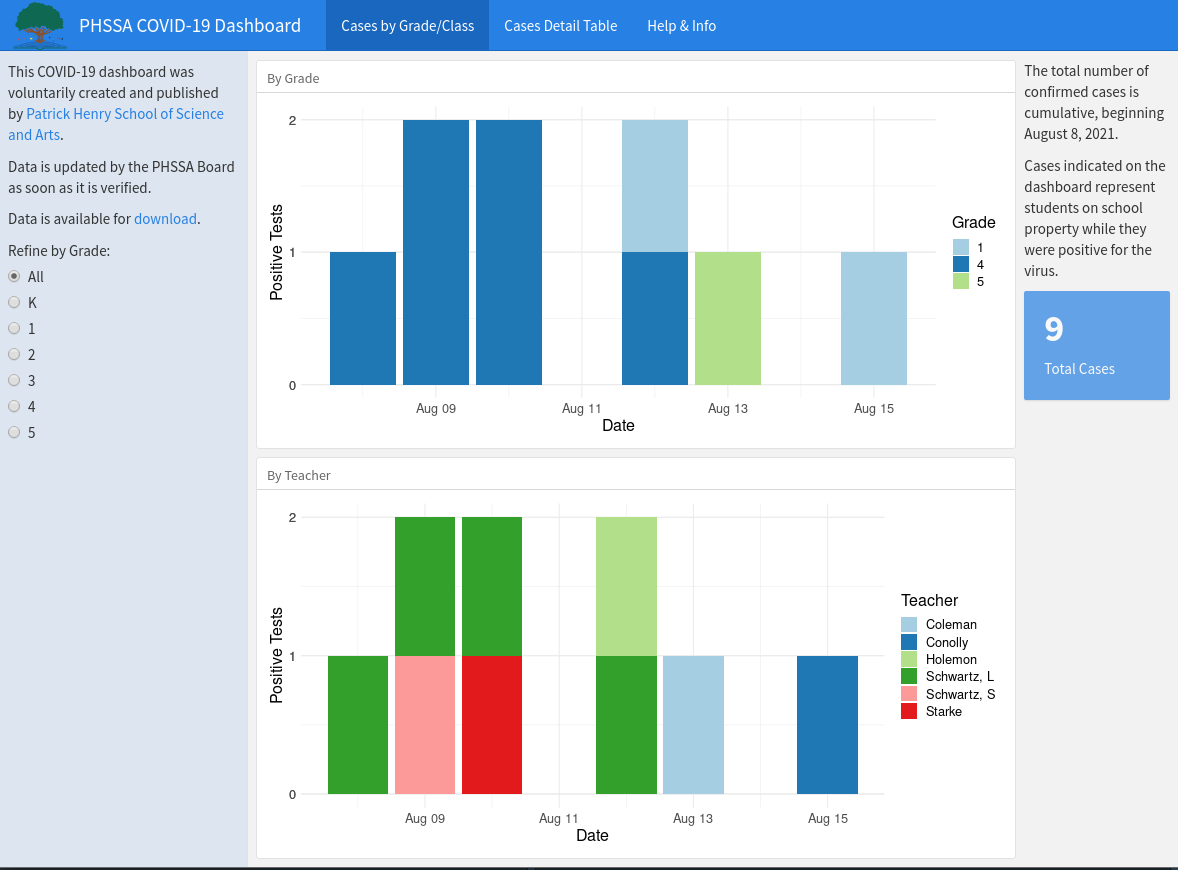
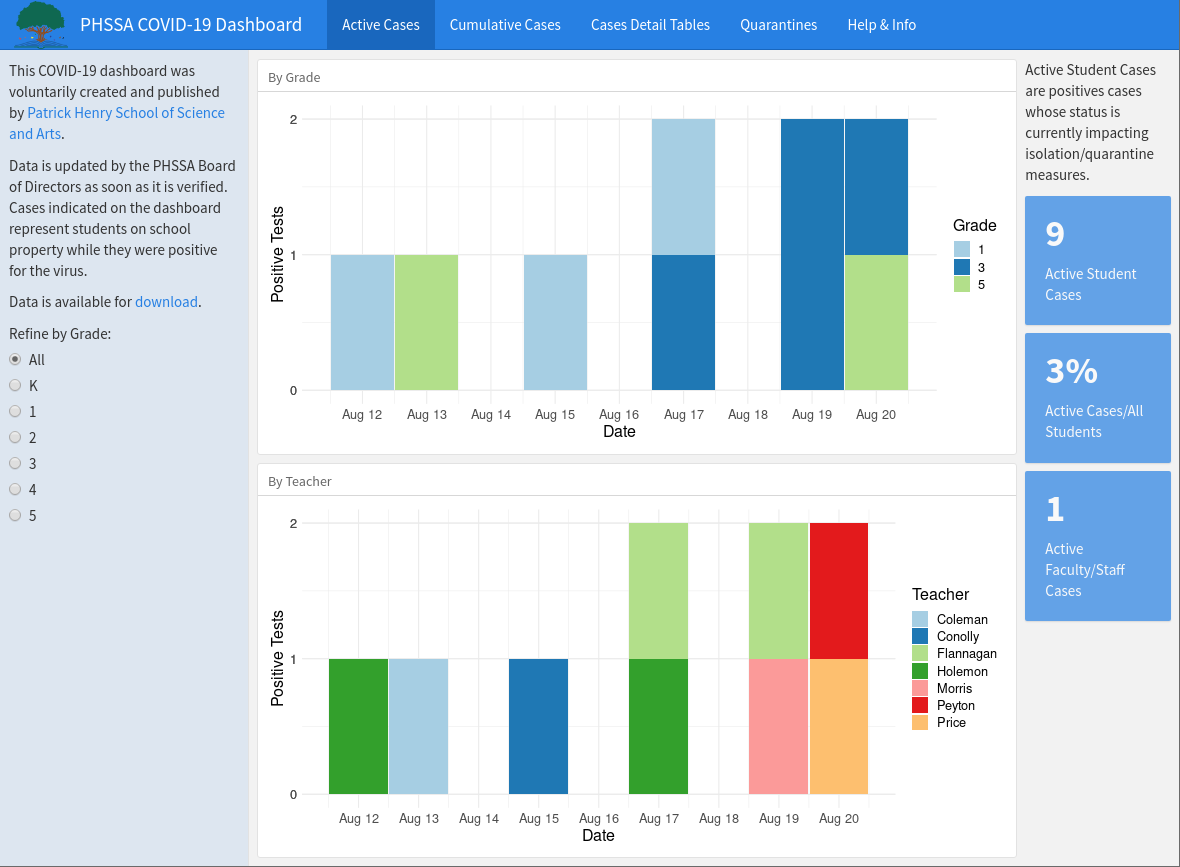
Adjusted labels, created tabs for tables, edits to README.

diff --git a/README.md b/README.md
@@ -2,4 +2,8 @@
 
 This is a basic COVID-19 positive case tracking dashboard published as a [Shiny](shinyapps.io) application for a school to track student cases. It's built in R with flexdashboard and DT for interactivity. The back end is a Google Sheet set to public view. School officials can easily add new cases to the Google Sheet and changes are reflected in the dashboard.
 
+To modify this dashboard for another school, run this project in RStudio or online without any installation at https://rstudio.cloud/. Host the interactive version for free or low cost at https://www.shinyapps.io/.
+
+Copy this [template for the back-end Google Sheet](https://docs.google.com/spreadsheets/d/14mekhT7QF3EOhuV3iJHF4qb3LNX8dE8vQI2lvmSFwmA/edit?usp=sharing). Share with appropriate editors and turn on View-Only link sharing to make the sheet public.
+
 ![Dashboard screenshot](assets/covid_dash_1.png)
